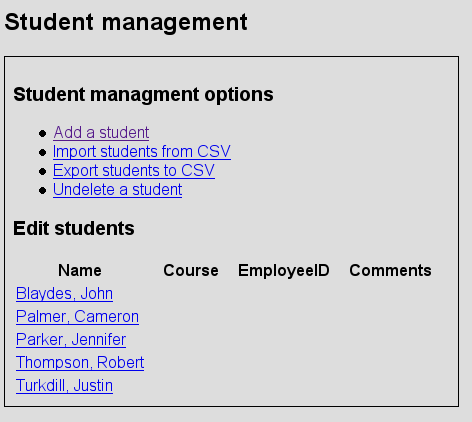
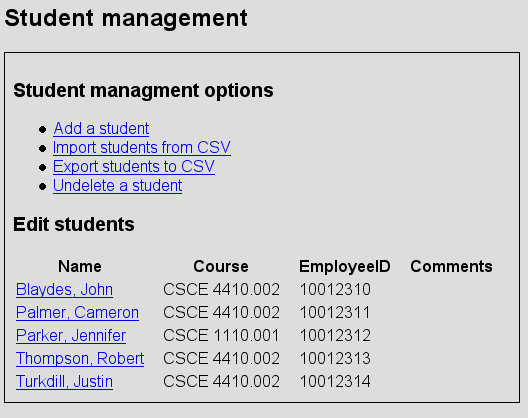
changed an image

diff --git a/classes/csce4410/project/studentMain.html b/classes/csce4410/project/studentMain.html
@@ -67,19 +67,19 @@
       <th>Name</th><th>Course</th><th>EmployeeID</th><th>Comments</th>
       </tr>
       <tr>
-      <td><a href="?">Blaydes, John</a></td><td></td><td></td><td></td>
+      <td><a href="?">Blaydes, John</a></td><td>CSCE 4410.002</td><td>10012310</td><td></td>
       </tr>
       <tr>
-      <td><a href="?">Palmer, Cameron</a></td><td></td><td></td><td></td>
+      <td><a href="?">Palmer, Cameron</a></td><td>CSCE 4410.002</td><td>10012311</td><td></td>
       </tr>
       <tr>
-      <td><a href="?">Parker, Jennifer</a></td><td></td><td></td><td></td>
+      <td><a href="?">Parker, Jennifer</a></td><td>CSCE 1110.001</td><td>10012312</td><td></td>
       </tr>
       <tr>
-      <td><a href="?">Thompson, Robert</a></td><td></td><td></td><td></td>
+      <td><a href="?">Thompson, Robert</a></td><td>CSCE 4410.002</td><td>10012313</td><td></td>
       </tr>
       <tr>
-      <td><a href="?">Turkdill, Justin</a></td><td></td><td></td><td></td>
+      <td><a href="?">Turkdill, Justin</a></td><td>CSCE 4410.002</td><td>10012314</td><td></td>
       </tr>
    </table>
    </div>
